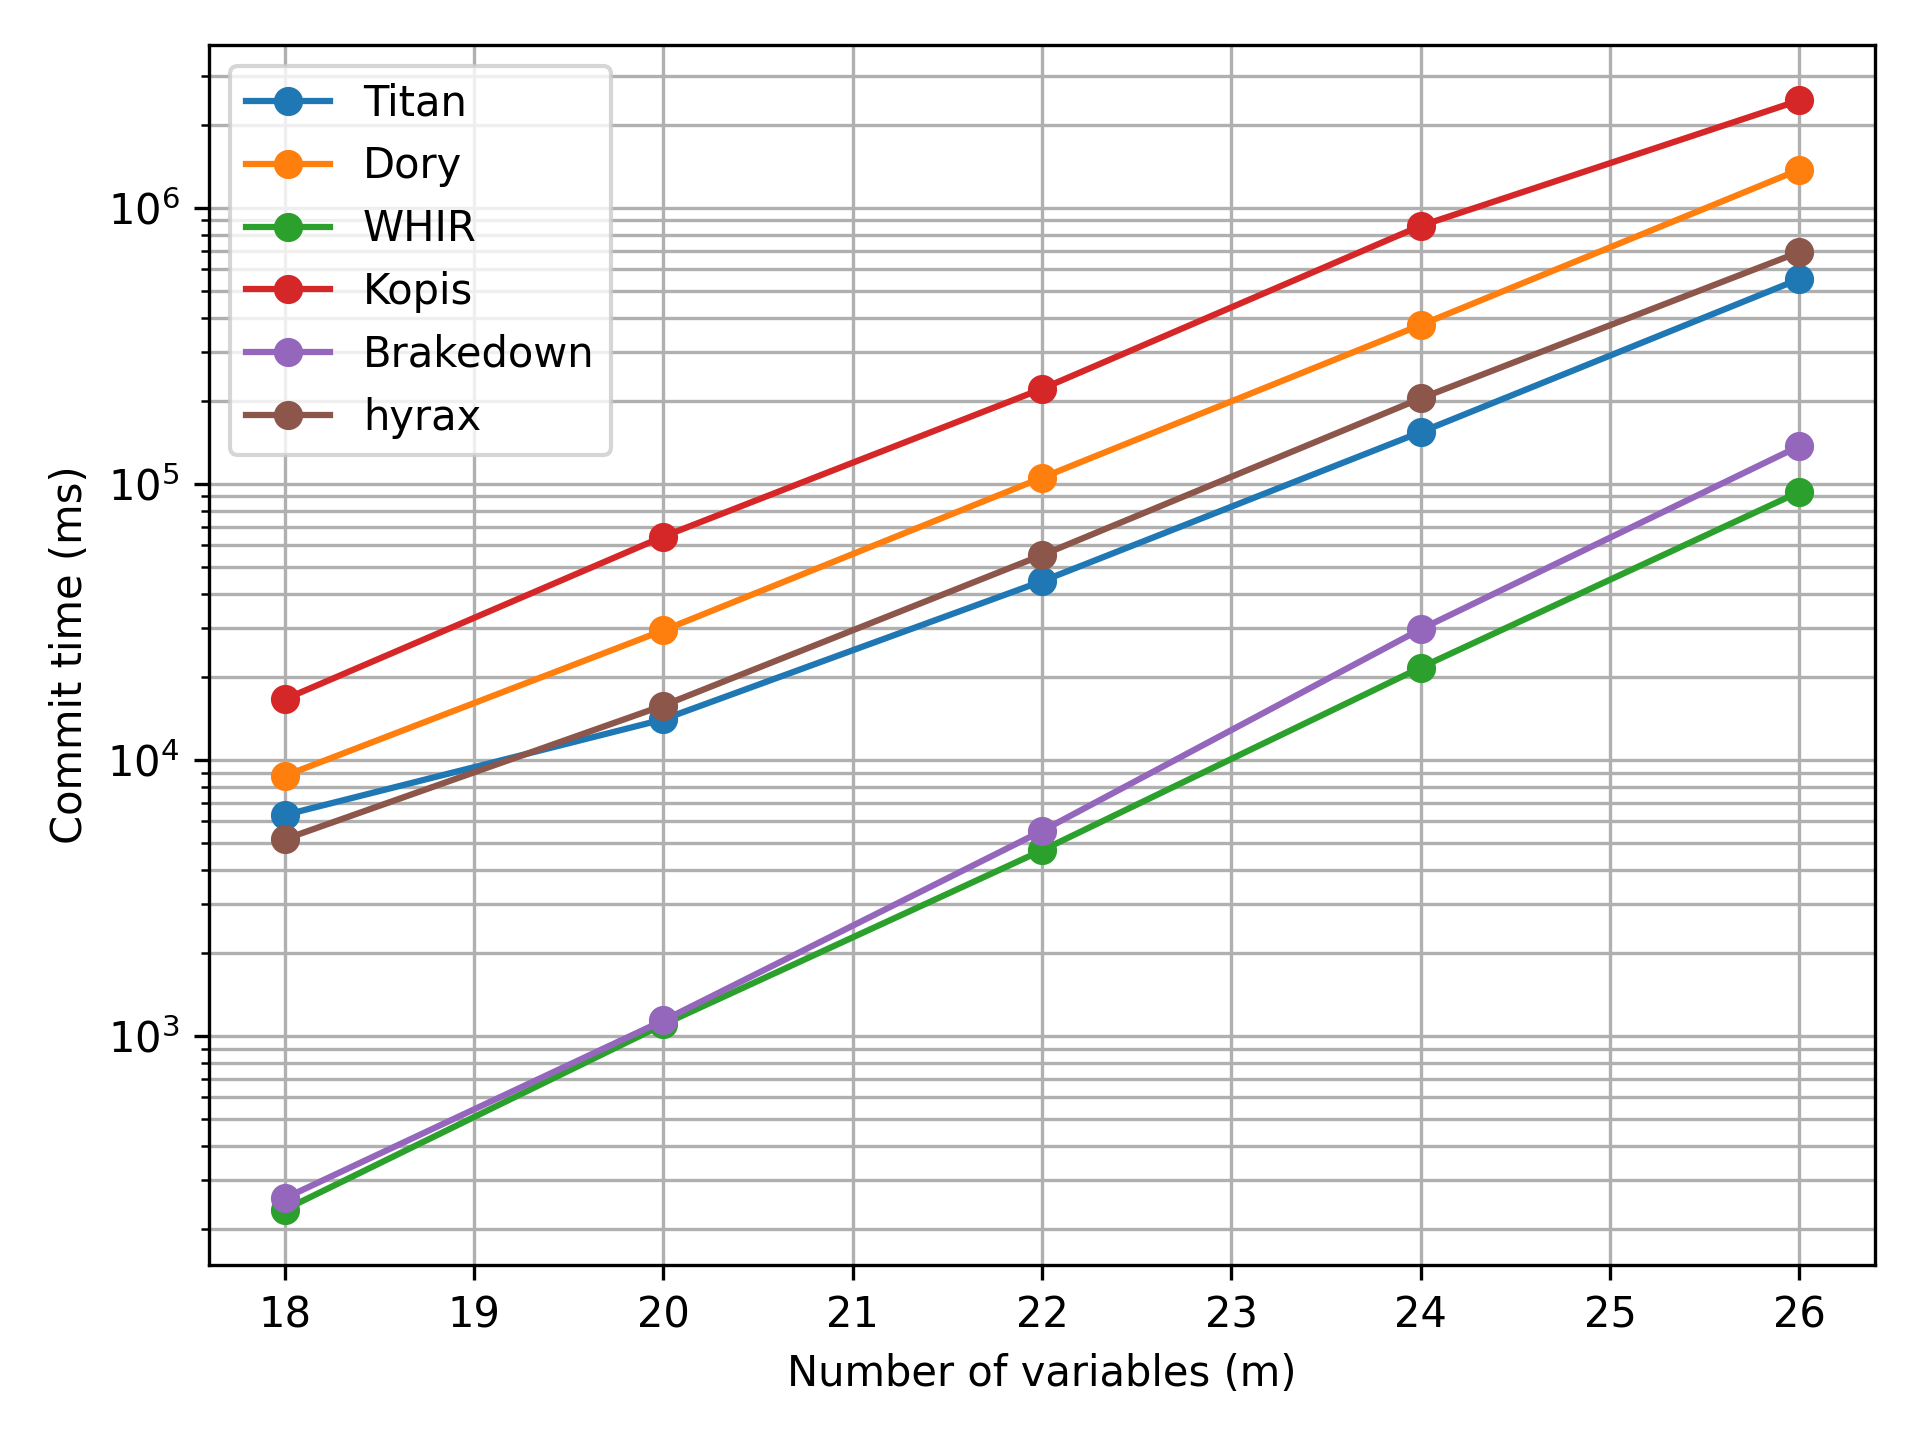
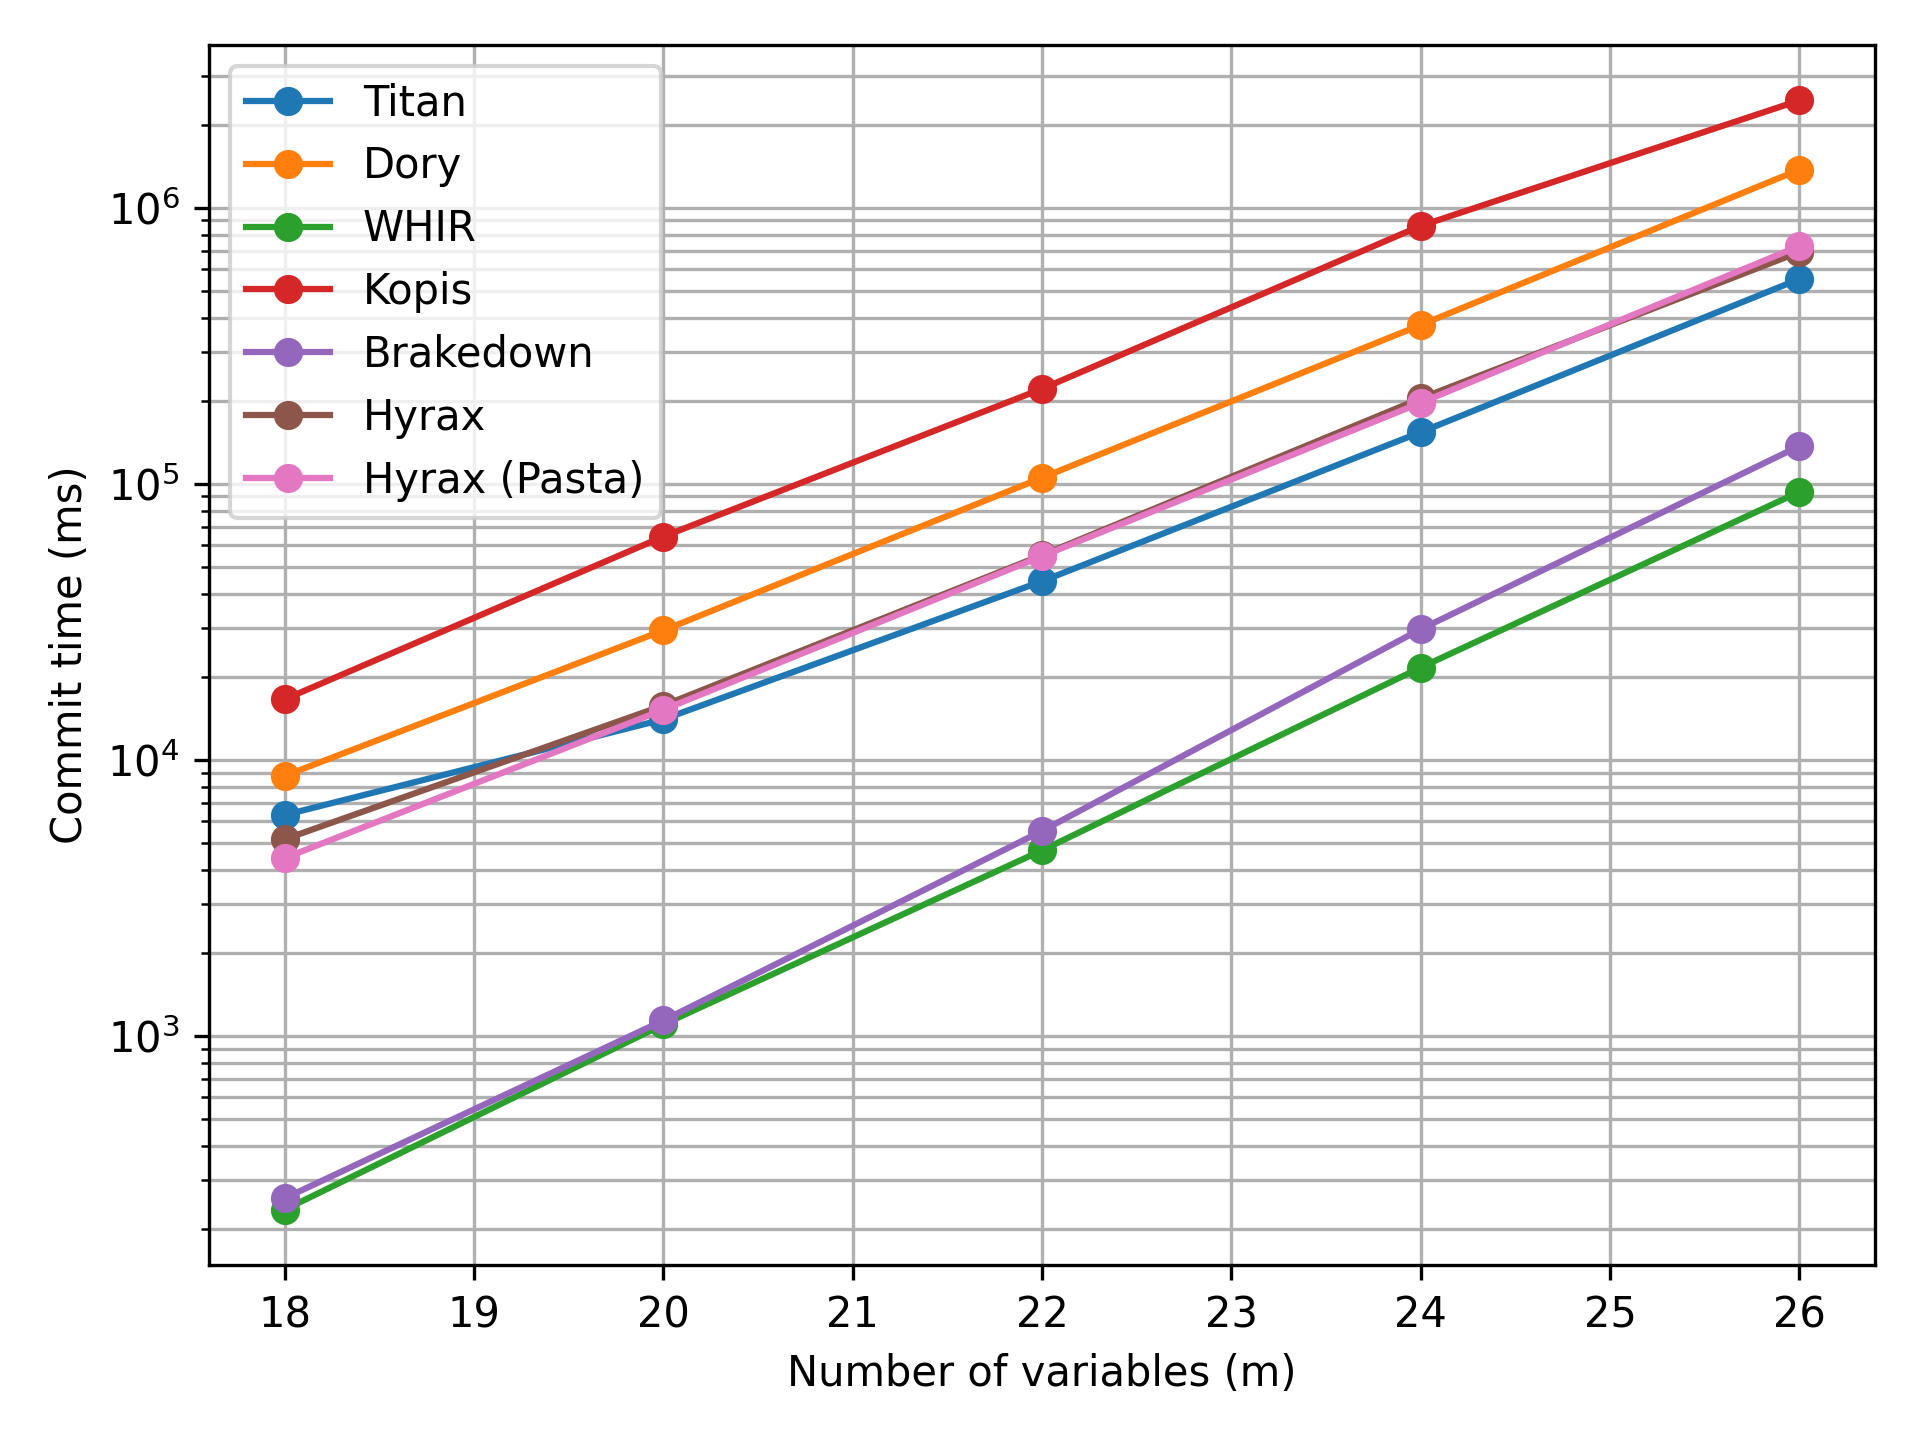
added hyrax_pasta

diff --git a/src/benchmarking/titan_plots.py b/src/benchmarking/titan_plots.py
@@ -26,7 +26,8 @@ for name, file in {
     "WHIR": "whir_clean.csv",
     "Kopis": "kopis_clean.csv",
     "Brakedown": "brakedown_clean.csv",
-    "hyrax": "hyrax_clean.csv",
+    "Hyrax": "hyrax_clean.csv",
+    "Hyrax (Pasta)":"hyrax_pasta_clean.csv"
 }.items():
     data = load_scheme(file)
     if data is not None:
